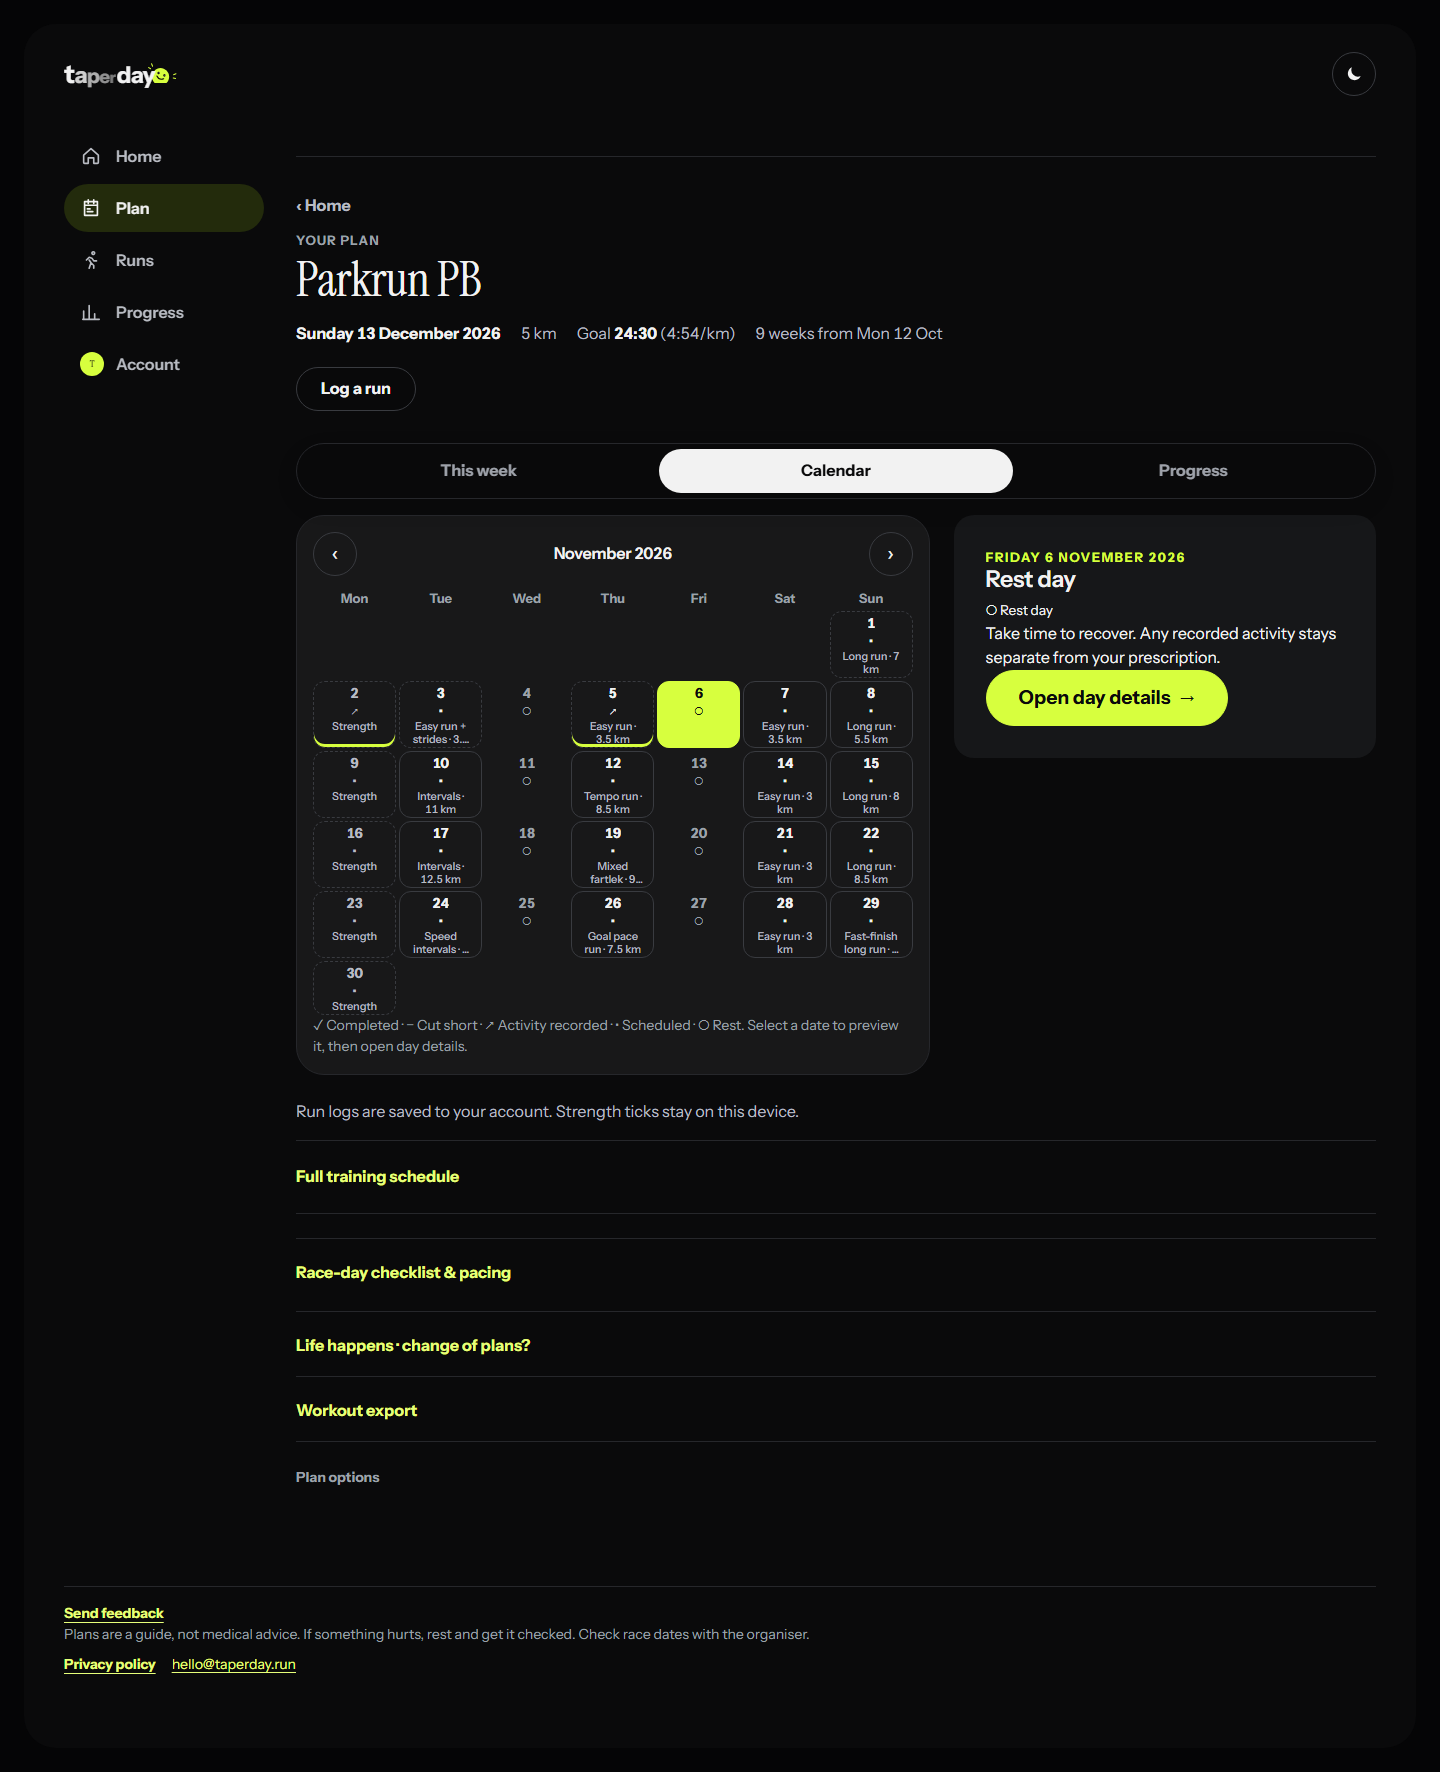
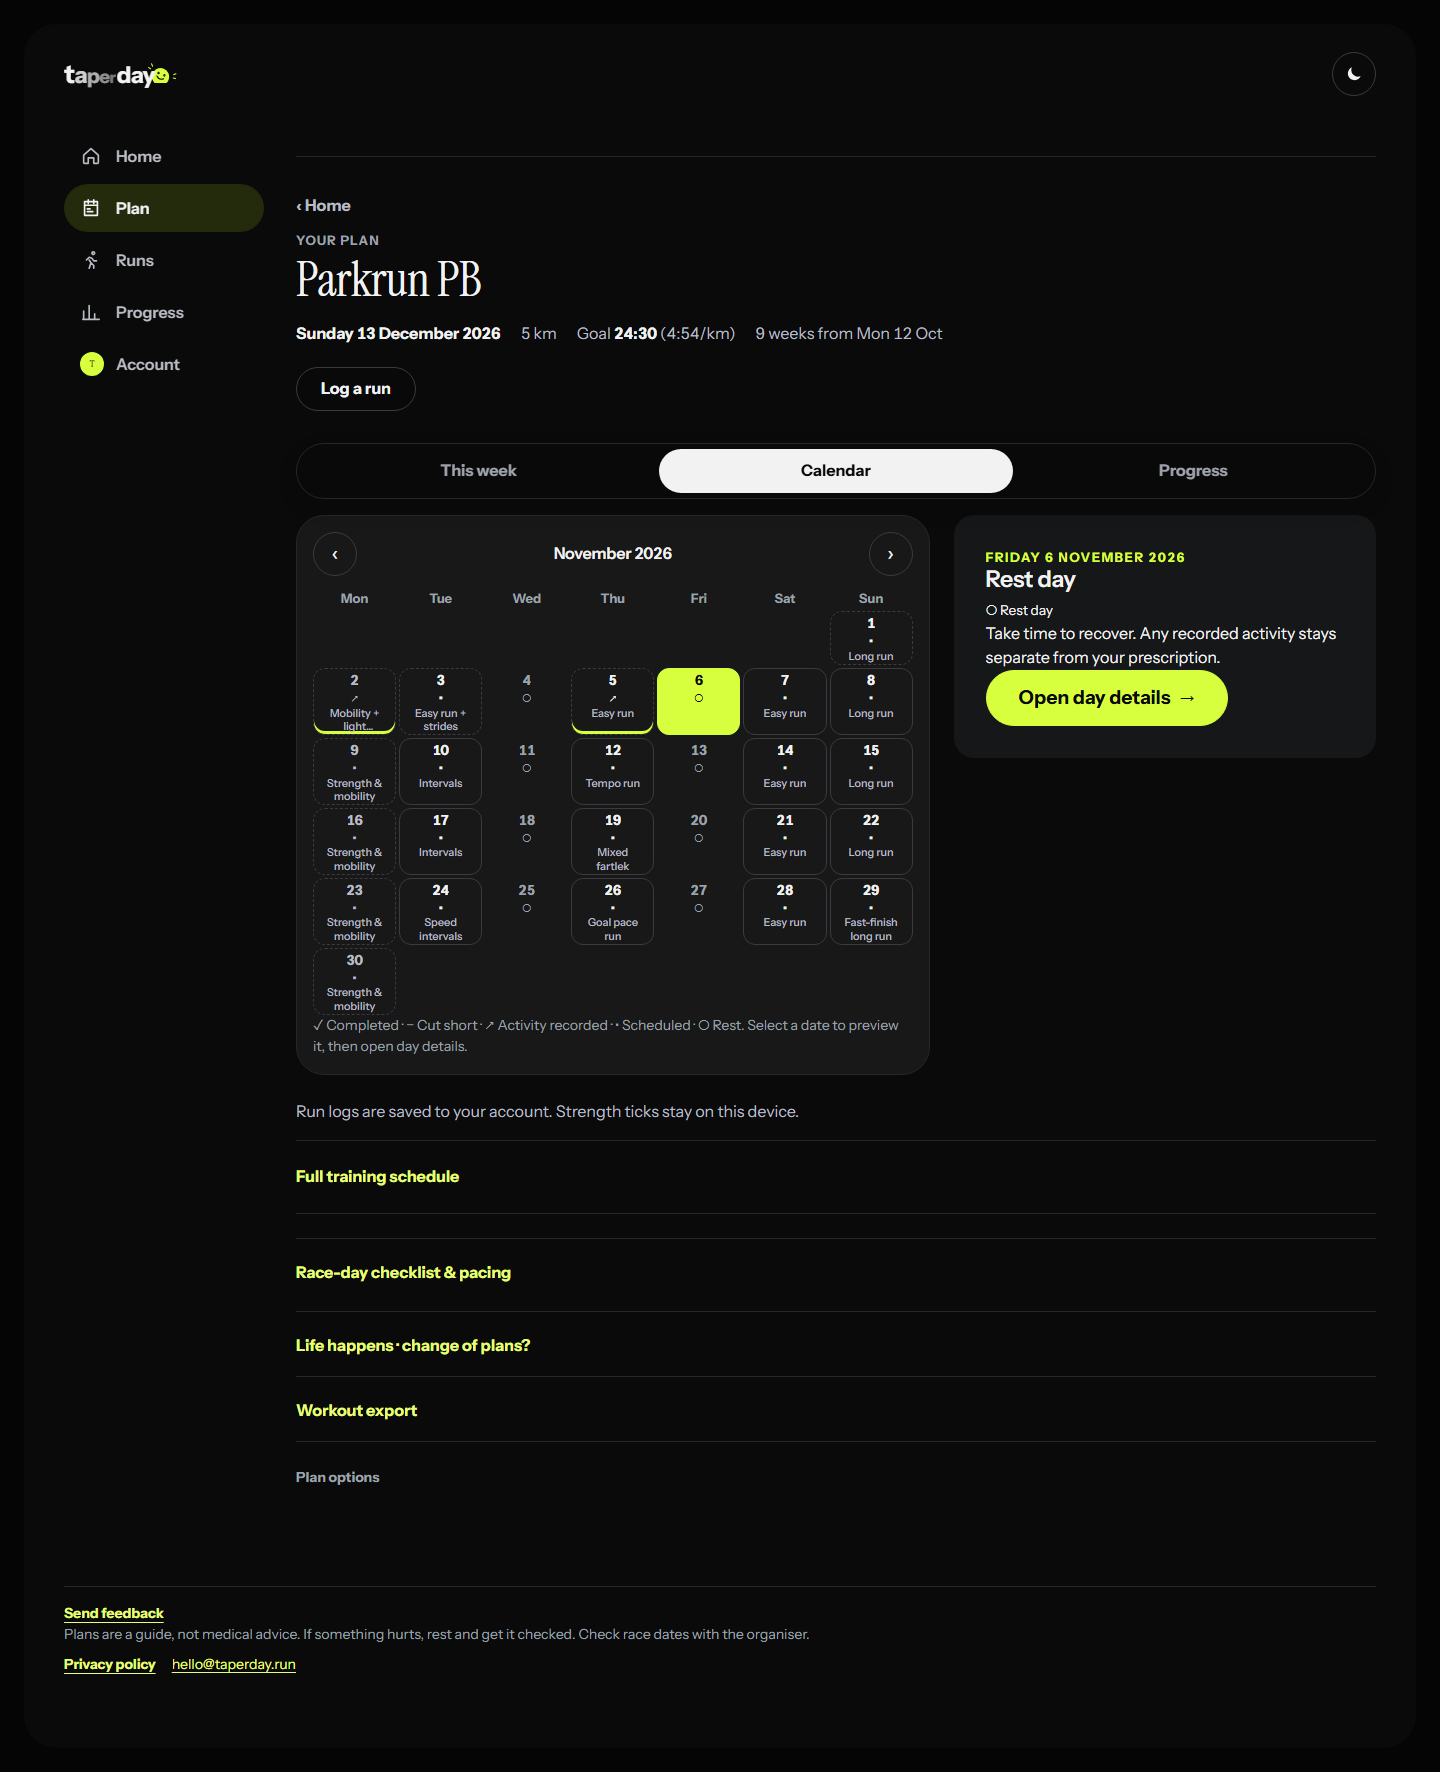
fix(ux): calendar day names stay accessible; one day preview at a time
- Wide calendar days draw the workout from data-what with CSS, so each
  button's visible text matches its accessible name (axe
  label-content-name-mismatch), and the label wording is unchanged.
- The calendar's default day (today) renders only on the Calendar tab,
  with its own id, so it never duplicates the selected-day preview.
- Local axe run (WCAG 2.2 AA tags) on Home, Plan, Calendar, Progress,
  Runs, a run and Account at 390 and 1440px in both themes: no issues.

diff --git a/client/src/features/plan/PlanCalendar.tsx b/client/src/features/plan/PlanCalendar.tsx
@@ -2,11 +2,8 @@ import type { dayStatus } from './training-status'
 import { useState } from 'react'
 import type { PlanWeek } from '../../lib/types'
 import { calendarDayState, moveCalendarFocus } from './calendar-day'
-import { formatDistance, type Units } from '../../lib/format'
 
 interface Props {
-  /** For the workout named in each day on wide screens. */
-  units?: Units
   statusFor?: (date: string) => ReturnType<typeof dayStatus>
   weeks: readonly PlanWeek[]
   raceDate: string
@@ -42,7 +39,7 @@ function monthsBetween(from: string, to: string): string[] {
  * The whole plan as a calendar, a month at a time: run days ringed, ticked ones in volt, today filled, race day flagged.
  * Every date opens its day summary, including rest days. It opens on today's month.
  */
-export function PlanCalendar({ units = 'km', weeks, raceDate, today, done, additionalDates = [], activityDates = [], historyDates = [], onSelectDate, selectedDate, daySummaryId, statusFor }: Props) {
+export function PlanCalendar({ weeks, raceDate, today, done, additionalDates = [], activityDates = [], historyDates = [], onSelectDate, selectedDate, daySummaryId, statusFor }: Props) {
   const sessions = weeks.flatMap((w) => w.sessions)
   const firstDate = [weeks[0]?.startDate ?? today, ...historyDates].sort()[0]!
   const lastDate = [raceDate, ...historyDates].sort().at(-1)!
@@ -88,13 +85,14 @@ export function PlanCalendar({ units = 'km', weeks, raceDate, today, done, addit
           const completion = calendarDayState(day, done, recorded, date, today)
           const state = isRace ? 'race' : status?.kind === 'complete' ? 'done' : status?.kind === 'partial' ? 'partial' : !status && completion === 'done' ? 'done' : runs.length > 0 ? 'run' : day.length > 0 ? 'strength' : 'rest'
           const inPlan = date >= (weeks[0]?.startDate ?? today) && date <= raceDate
-          const label = `${date.slice(8).replace(/^0/, '')} ${MONTH.format(utc(date)).split(' ')[0]}: ${isRace ? 'race day' : day.length ? day.map((s) => s.title).join(', ') : inPlan ? 'rest' : 'outside this plan'}${status ? `, ${status.label.toLowerCase()}` : completion === 'done' ? ', done' : completion === 'missed' ? ', no completion recorded' : ''}${recorded ? ', activity recorded' : ''}${additional ? `, ${additional} additional ${additional === 1 ? 'run' : 'runs'} logged` : ''}`
+          // On wide screens the day also shows these words (drawn by CSS from data-what); its accessible name already has them.
+          const what = isRace ? 'race day' : day.map((s) => s.title).join(', ')
+          const label = `${date.slice(8).replace(/^0/, '')} ${MONTH.format(utc(date)).split(' ')[0]}: ${isRace || day.length ? what : inPlan ? 'rest' : 'outside this plan'}${status ? `, ${status.label.toLowerCase()}` : completion === 'done' ? ', done' : completion === 'missed' ? ', no completion recorded' : ''}${recorded ? ', activity recorded' : ''}${additional ? `, ${additional} additional ${additional === 1 ? 'run' : 'runs'} logged` : ''}`
           const cls = `plan-calendar-day is-${state}${completion === 'missed' ? ' is-missed' : ''}${date === today ? ' is-today' : ''}${recorded ? ' has-activity' : ''}`
           return (
-            <button key={date} data-date={date} type="button" className={cls} data-status={status?.kind} aria-label={label} aria-pressed={date === selectedDate} aria-controls={date === selectedDate ? daySummaryId : undefined} aria-current={date === today ? 'date' : undefined} onClick={event => onSelectDate(date, event.currentTarget)}>
+            <button key={date} data-date={date} data-what={isRace || day.length ? what : undefined} type="button" className={cls} data-status={status?.kind} aria-label={label} aria-pressed={date === selectedDate} aria-controls={date === selectedDate ? daySummaryId : undefined} aria-current={date === today ? 'date' : undefined} onClick={event => onSelectDate(date, event.currentTarget)}>
               {Number(date.slice(8))}
               {status && <span className="calendar-status" aria-hidden="true">{status.icon}</span>}
-              {(isRace || day.length > 0) && <span className="calendar-what" aria-hidden="true">{isRace ? 'Race day' : day.map(s => s.type === 'Strength' ? 'Strength' : `${s.title}${s.distanceKm > 0 ? ` · ${formatDistance(s.distanceKm, units)}` : ''}`).join(' + ')}</span>}
             </button>
           )
         })}

diff --git a/client/src/features/plan/PlanView.tsx b/client/src/features/plan/PlanView.tsx
@@ -379,6 +379,8 @@ export function PlanView({ plan, preparation, reveal = false, openTab, onBack, u
   const previewDate = selectedDate ?? (shown && today >= shown.week.startDate && today <= weekEnd(shown.week) ? today : shown?.week.startDate ?? today)
   const sessionsOn = (date: string) => plan.weeks.flatMap(week => week.sessions).filter(session => session.date === date)
   const statusOn = (date: string) => dayStatus(sessionsOn(date), effectiveDone, entries.filter(entry => entry.date === date), activityDates.includes(date), sessionsOn(date).some(session => completedViaStrava(session, coach)))
+  // On a desktop the calendar shows today's day (or the first plan day) beside the month until a day is chosen.
+  const calendarDefault = today >= plan.startDate && today <= plan.race.date ? today : plan.startDate
   const preview = (date: string) => <DayPreview id={daySummaryId} date={date} sessions={sessionsOn(date)} status={statusOn(date)} units={units} paces={plan.paces} onOpen={() => openDay(date)} />
 
   return (
@@ -509,8 +511,8 @@ export function PlanView({ plan, preparation, reveal = false, openTab, onBack, u
 
         <div {...panel('all')}>
           <div className="calendar-split">
-          <PlanCalendar units={units} weeks={plan.weeks} raceDate={plan.race.date} today={today} done={effectiveDone} additionalDates={additionalDates} activityDates={activityDates} historyDates={entries.map(entry => entry.date)} statusFor={statusOn} onSelectDate={selectDate} selectedDate={selectedDay?.tab === 'all' ? selectedDate : null} daySummaryId={daySummaryId} />
-          {selectedDay?.tab === 'all' && selectedDate ? preview(selectedDate) : <div className="calendar-default-day">{preview(today >= plan.startDate && today <= plan.race.date ? today : plan.startDate)}</div>}
+          <PlanCalendar weeks={plan.weeks} raceDate={plan.race.date} today={today} done={effectiveDone} additionalDates={additionalDates} activityDates={activityDates} historyDates={entries.map(entry => entry.date)} statusFor={statusOn} onSelectDate={selectDate} selectedDate={selectedDay?.tab === 'all' ? selectedDate : null} daySummaryId={daySummaryId} />
+          {selectedDay?.tab === 'all' && selectedDate ? preview(selectedDate) : tab === 'all' && <div className="calendar-default-day"><DayPreview id={`${daySummaryId}-calendar`} date={calendarDefault} sessions={sessionsOn(calendarDefault)} status={statusOn(calendarDefault)} units={units} paces={plan.paces} onOpen={() => openDay(calendarDefault)} /></div>}
           </div>
           <p className="tab-intro">{coach ? 'Run logs are saved to your account. Strength ticks stay on this device.' : 'Tick sessions off as you go. Ticks are saved on this device only.'}</p>
           <details className="disclosure training-guide"><summary>Full training schedule</summary><WeekList weeks={plan.weeks} paces={plan.paces} units={units} currentWeek={currentWeek} done={effectiveDone} onDoneChange={updateDone} runs={byDate} onOpenRun={onOpenRun} onLogRun={logImportedRun} coach={coach} today={today} canCompleteRuns={canCompleteRuns} /></details>

diff --git a/client/src/styles/ux-redesign.css b/client/src/styles/ux-redesign.css
@@ -178,10 +178,10 @@
 .plan .week-navigation .week-jump select { width: min(100%, 18rem); text-overflow: ellipsis; }
 
 /* ---------- Plan calendar: the workout in each day on wide screens; the day beside the month on desktops ---------- */
-.calendar-what { display: none; }
 @media (min-width: 64rem) {
   .plan-calendar-day { display: grid; align-content: start; justify-items: center; gap: 2px; min-height: 4.75rem; }
-  .calendar-what {
+  .plan-calendar-day[data-what]::after {
+    content: attr(data-what);
     display: -webkit-box;
     -webkit-line-clamp: 2;
     -webkit-box-orient: vertical;
@@ -194,8 +194,7 @@
     color: var(--ink-2);
     text-align: center;
   }
-  .plan-calendar-day[aria-pressed='true'] .calendar-what,
-  .plan-calendar-day.is-today .calendar-what { color: inherit; }
+  .plan-calendar-day[data-what]:is([aria-pressed='true'], .is-today)::after { color: inherit; }
   .calendar-split { display: grid; grid-template-columns: minmax(0, 1.5fr) minmax(0, 1fr); gap: var(--space-5); align-items: start; }
   .calendar-split > .day-preview, .calendar-split > .calendar-default-day { position: sticky; top: calc(var(--masthead-h, 4.5rem) + var(--space-4)); }
 }

diff --git a/client/src/features/plan/PlanTabs.test.tsx b/client/src/features/plan/PlanTabs.test.tsx
@@ -51,7 +51,8 @@ describe('plan navigation and progress clarity', () => {
     await userEvent.setup().click(screen.getByRole('tab', { name: 'Calendar' }))
     const session = planFixture.weeks[0]!.sessions.find(s => s.type !== 'Strength')!
     const day = document.querySelector(`.plan-calendar [data-date="${session.date}"]`)!
-    expect(day.querySelector('.calendar-what')?.textContent).toContain(session.title)
+    expect(day.getAttribute('data-what')).toContain(session.title)
+    expect(day.getAttribute('aria-label')).toContain(session.title)
   })
 
   it('explains progress before detailed training charts', async () => {
